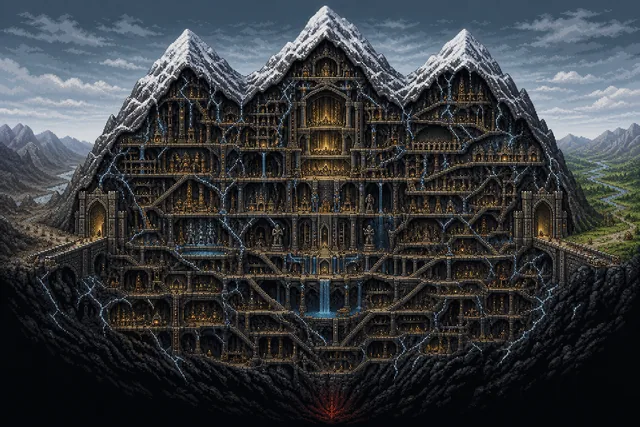
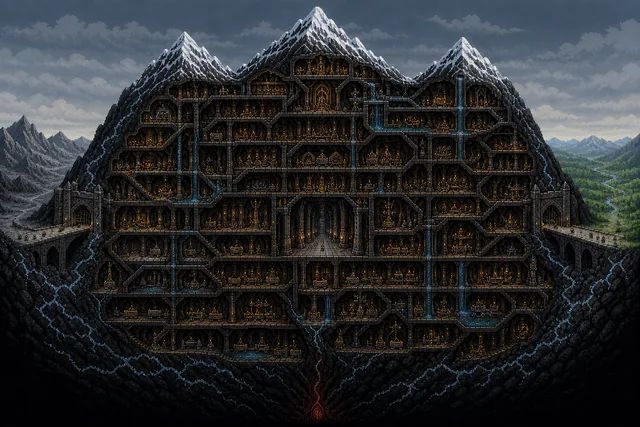
크하잣둠: 버드뷰 삽화 교체 (드워로우델프 대회랑 중심 단면) + 캡션 보강

diff --git a/_posts/Lore/Middle-earth/2026-08-25-middle-earth-city-khazad-dum.md b/_posts/Lore/Middle-earth/2026-08-25-middle-earth-city-khazad-dum.md
@@ -132,7 +132,7 @@ flowchart LR
   <source type="image/webp" srcset="/assets/images/lore/middle-earth-city-khazad-dum-birdview-640.webp 640w, /assets/images/lore/middle-earth-city-khazad-dum-birdview-1024.webp 1024w, /assets/images/lore/middle-earth-city-khazad-dum-birdview-1536.webp 1536w" sizes="(max-width: 800px) 100vw, 760px">
   <img src="/assets/images/lore/middle-earth-city-khazad-dum-birdview.jpg" alt="안개산맥을 세로로 자른 거대한 단면 조감도. 위에는 눈 덮인 봉우리 셋이 솟아 있고, 그 아래 산의 몸통 속으로 층층이 파 내려간 수많은 지하 대전당과 기둥의 숲, 다리와 계단이 산의 뿌리까지 이어진다. 왼쪽에는 서쪽 관문, 오른쪽에는 동쪽 골짜기로 나가는 문이 보인다. 돌벽 곳곳에 은빛 미스릴 광맥이 그물처럼 빛나고, 가장 깊은 바닥은 짙은 어둠에 잠겨 붉은 기운이 어린다. 검은 돌, 은빛 광맥, 바닥의 붉은 기운. 레트로 픽셀아트." width="1536" height="1024" loading="lazy" decoding="async">
 </picture>
-<figcaption><strong>크하잣둠 단면 조감</strong> — 안개산맥을 세로로 갈라 보면, 눈 덮인 봉우리 아래로 층층이 파 내려간 지하 대전당이 산의 뿌리까지 이어진다. 서문과 동문이 산맥의 양쪽을 잇고, 돌벽 곳곳에 은빛 <strong>미스릴</strong> 광맥이 빛난다. 그러나 가장 깊은 바닥은 짙은 어둠에 잠겨 있다 — 드워프가 아직 건드리지 않은, 세계만큼 오래된 무언가가 잠든 곳이다. <em>(콘셉트에 맞춰 새로 생성한 원본 삽화)</em></figcaption>
+<figcaption><strong>크하잣둠 단면 조감</strong> — 안개산맥을 세로로 갈라 보면, 눈 덮인 봉우리 아래로 층층이 파 내려간 지하 대전당이 산의 뿌리까지 이어진다. 그 한복판에는 소실점까지 검은 기둥이 두 줄로 늘어선 거대한 <strong>대회랑(드워로우델프)</strong> 이 있고, 서문과 동문이 산맥의 양쪽을 잇는다. 돌벽 곳곳에 은빛 <strong>미스릴</strong> 광맥이 빛난다. 그러나 가장 깊은 바닥은 짙은 어둠에 잠겨 있다 — 드워프가 아직 건드리지 않은, 세계만큼 오래된 무언가가 잠든 곳이다. <em>(콘셉트에 맞춰 새로 생성한 원본 삽화)</em></figcaption>
 </figure>
 
 크하잣둠의 부와 명성은 대부분 하나의 금속에서 나왔습니다. 드워프들이 **미스릴(Mithril)**, 곧 '진은(眞銀, true-silver)'이라 부른 금속입니다. 미스릴은 세상 어디에서도 나지 않고 오직 크하잣둠의 산 밑에서만 캘 수 있었습니다.
